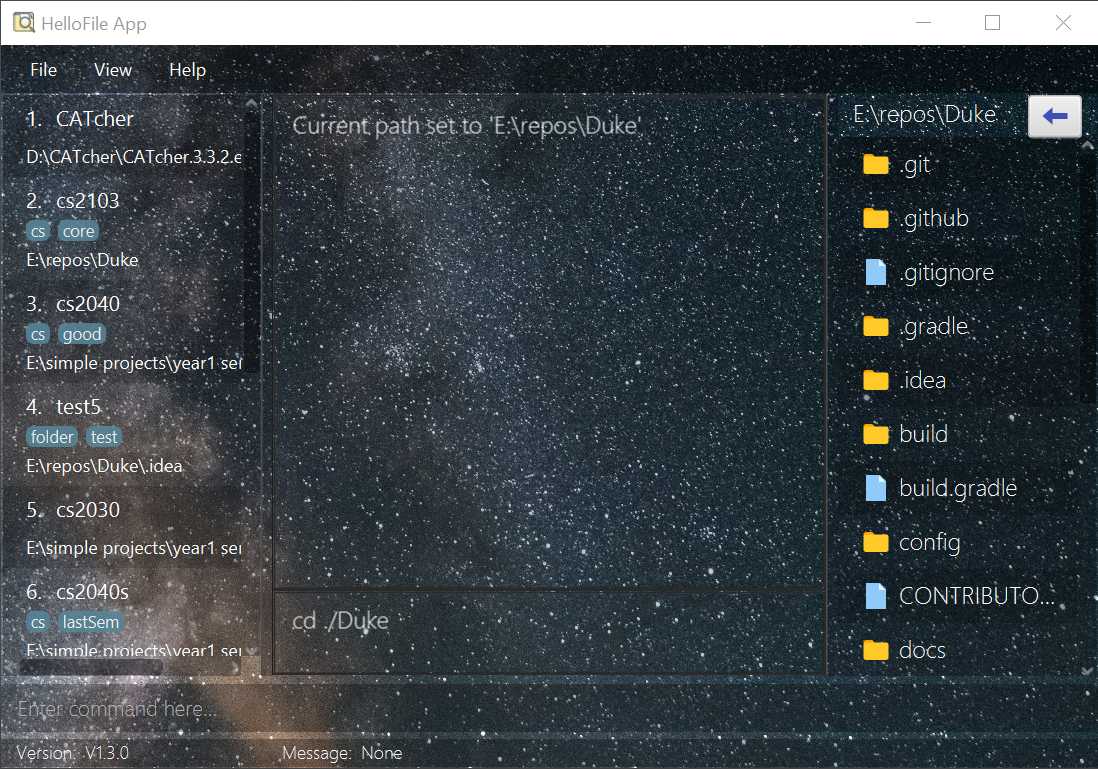
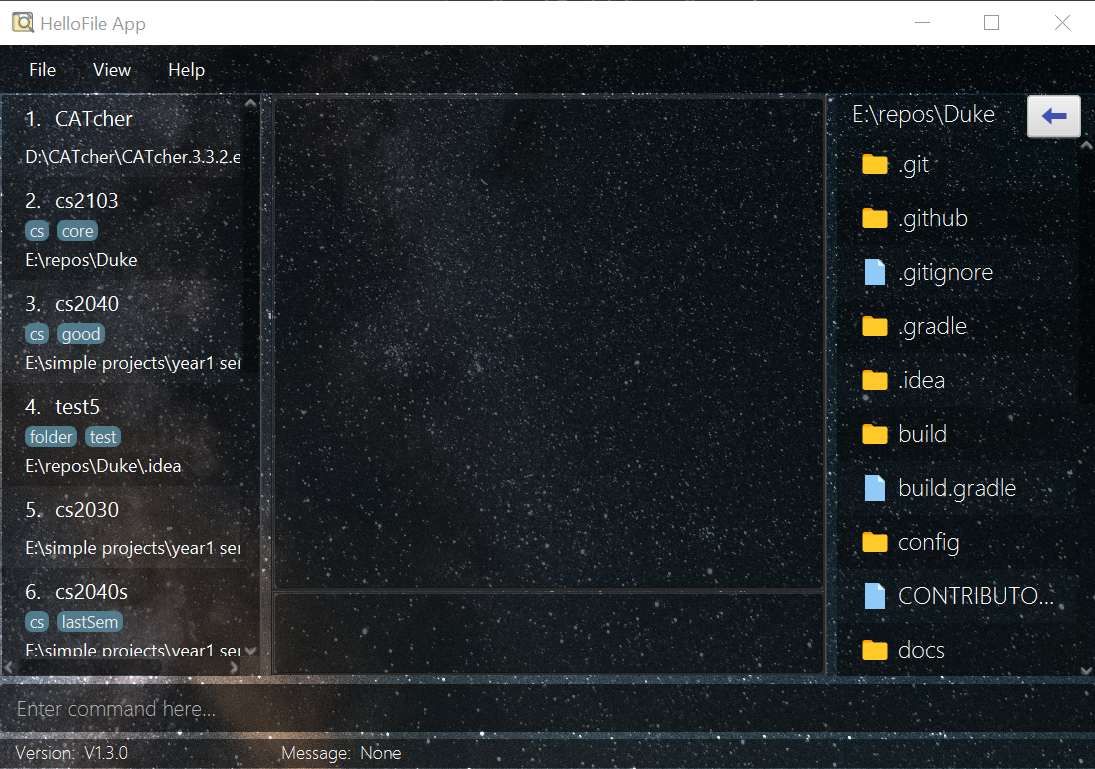
Modify galaxy theme to make fonts clearer

diff --git a/src/main/resources/view/GalaxyTheme.css b/src/main/resources/view/GalaxyTheme.css
@@ -46,7 +46,7 @@
 
 /*----------menu----------*/
 .menu-bar {
-    -fx-background-color: rgba(0, 0, 0, 0.5);
+    -fx-background-color: rgba(0, 0, 0, 0.7);
 }
 
 .menu {
@@ -71,7 +71,7 @@
 
 /*----------command box----------*/
 #commandTextField {
-    -fx-background-color: rgba(0, 0, 0, 0.3);
+    -fx-background-color: rgba(0, 0, 0, 0.6);
     -fx-border-color: transparent;
     -fx-font-family: "Segoe UI Light";
     -fx-font-size: 14px;
@@ -80,7 +80,7 @@
 
 /*----------text area----------*/
 .text-area {
-    -fx-background-color: rgba(0, 0, 0, 0.2);
+    -fx-background-color: rgba(0, 0, 0, 0.6);
     -fx-font-family: "Segoe UI Light";
     -fx-font-size: 16px;
     -fx-text-fill: white;
@@ -103,11 +103,11 @@
 .list-view {
     -fx-background-insets: 0;
     -fx-padding: 0;
-    -fx-background-color: transparent;
+    -fx-background-color: rgba(0, 0, 0, 0.5);
 }
 
 .list-cell {
-    -fx-background-color: rgba(0, 0, 0, 0.2);
+    -fx-background-color: transparent;
     -fx-border-width: 0px;
     -fx-label-padding: 0 0 0 0;
     -fx-graphic-text-gap : 0;
@@ -115,7 +115,7 @@
 }
 
 .list-cell:filled:even {
-    -fx-background-color: rgba(0, 0, 0, 0.4);
+    -fx-background-color: rgba(0, 0, 0, 0.1);
 }
 
 .list-cell:filled:odd {
@@ -123,7 +123,7 @@
 }
 
 .list-cell:filled:selected {
-    -fx-background-color: #424d5f;
+    -fx-background-color: rgba(0, 0, 0, 0.7);
 }
 
 .list-cell .label {
@@ -132,7 +132,7 @@
 
 /*----------footer bar----------*/
 .footer-bar {
-    -fx-background-color: rgba(0, 0, 0, 0.3);
+    -fx-background-color: rgba(0, 0, 0, 0.5);
 }
 
 .footer-bar .label {
@@ -162,7 +162,7 @@
 
 /*----------file explorer----------*/
 .explorer-pane .current-path-box {
-    -fx-background-color: rgba(0, 0, 0, 0);
+    -fx-background-color: rgba(0, 0, 0, 0.5);
 }
 
 .explorer-pane .label {
